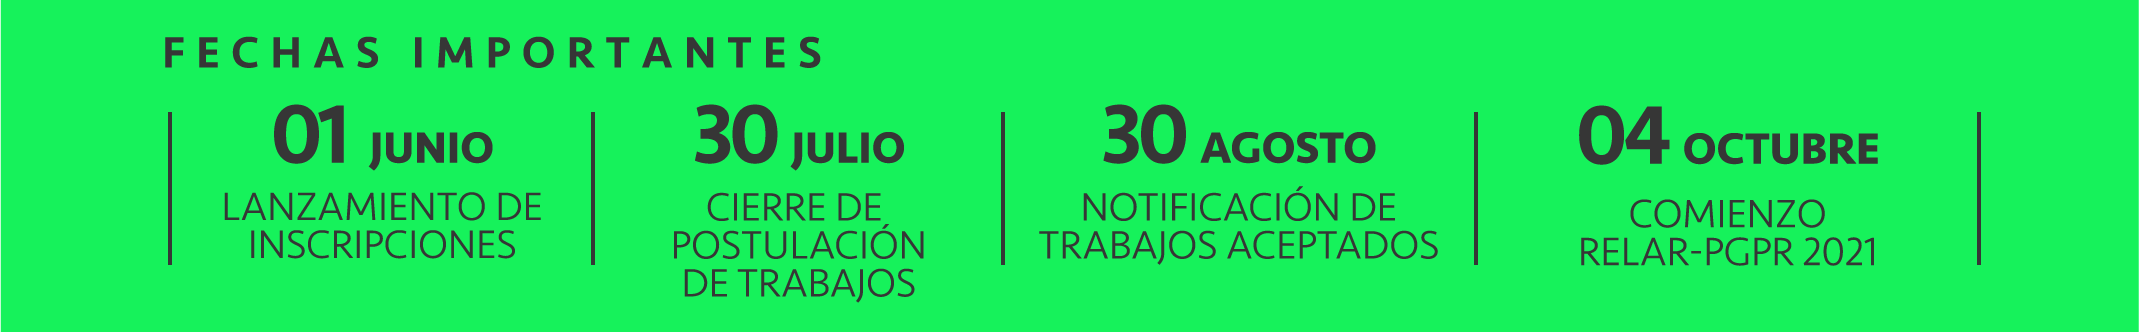
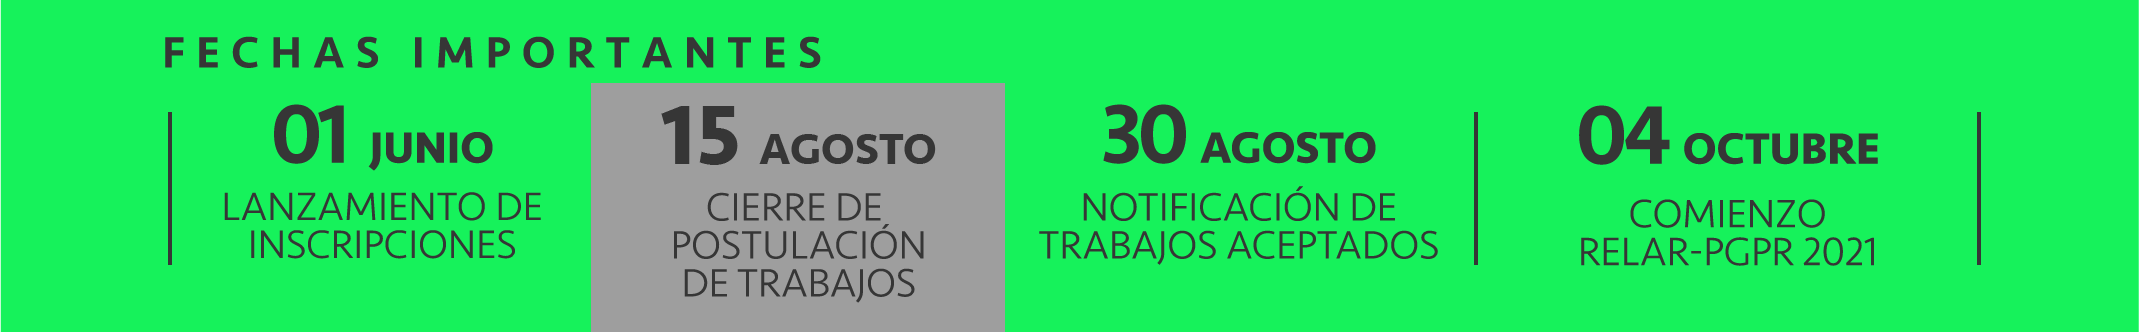
Pop up/ Noticias
Agregado PopUp en el inicio/
Actualizadas fechas importantes/
Actualizadas las noticias.

diff --git a/src/app/pages/noticias/noticias.component.html b/src/app/pages/noticias/noticias.component.html
@@ -5,6 +5,17 @@
     <div class="px-5 w-lg-75 mx-auto mx-5 mt-5">
         <section class="row mt-0">
             <div class="col-12 col-md-4 col-lg-3">
+                <img class="img-fluid" src="/assets/img/noti-4.jpg" alt="Placa de noticia">
+            </div>
+            <div class="col-12 col-md-8 mt-3 mt-mt-0">
+                <h3>Inscripción PEDECIBA</h3>
+                <hr>
+                <p>Investigadores y estudiantes de PEDECIBA (Biología o Químimca) pueden abonar el costo de inscripción por medio de la alícuota PEDECIBA, enviando el siguiente formulario: <a href="https://firebasestorage.googleapis.com/v0/b/relar-pgpr.appspot.com/o/FormularioPagoRELAR_PGPR_Pedeciba.odt?alt=media&amp;token=007214a8-03f6-43e4-85ff-dbee06824e0b" target="_blank" rel="Formulario PEDECIBA">link formulario</a> a PEDECIBA Biologia: <a href="mailto:presupuestobiologia@pedeciba.edu.uy">presupuestobiologia@pedeciba.edu.uy</a> con copia a <a href="mailto:secretaria.alar@gmail.com">secretaria.alar@gmail.com</a>  / PEDECIBA Química: <a href="mailto:gabig@fq.edu.uy">gabig@fq.edu.uy</a> con copia a <a href="mailto:secretaria.alar@gmail.com">secretaria.alar@gmail.com</a>.</p>
+                <p>Toda persona que haya realizado el pago de inscripción a través de la alícuota PEDECIBA deberá solicitar su código de inscripción a <a href="mailto:secretaria.alar@gmail.com">secretaria.alar@gmail.com</a></p>
+            </div>
+        </section>
+        <section class="row mt-0">
+            <div class="col-12 col-md-4 col-lg-3">
                 <img class="img-fluid" src="/assets/img/noti-2.jpg" alt="Placa de noticia">
             </div>
             <div class="col-12 col-md-8 mt-3 mt-mt-0">

diff --git a/src/app/components/home/noticias/noticias.component.html b/src/app/components/home/noticias/noticias.component.html
@@ -1,13 +1,13 @@
 <section class="w-100">
   <div class="d-flex p-5">
-    <div class="col puntero p-0">
-      <img class="img-fluid w-100" [routerLink]="['/noticias']" src="/assets/img/noti-1.jpg" alt="Noticia 1">
+    <div class="col puntero px-5 d-flex align-items-center">
+      <img class="img-fluid w-100" [routerLink]="['/noticias']" src="/assets/img/pop-up.png" alt="Noticia 1">
     </div>
-    <div class="col puntero px-5">
+    <div class="col puntero p-0">
       <img class="img-fluid w-100" [routerLink]="['/noticias']" src="/assets/img/noti-2.jpg" alt="Noticia 2">
     </div>
-    <div class="col puntero p-0">
-      <img class="img-fluid w-100" [routerLink]="['/noticias']" src="/assets/img/noti-3.jpg" alt="Noticia 3">
+    <div class="col puntero px-5 d-flex align-items-center">
+      <img class="img-fluid w-100" [routerLink]="['/noticias']" src="/assets/img/noti-4.jpg" alt="Noticia 1">
     </div>
   </div>
 </section>

diff --git a/src/app/pages/home/home.component.ts b/src/app/pages/home/home.component.ts
@@ -1,5 +1,7 @@
 import { Component, OnInit } from '@angular/core';
-
+import { MatDialog } from '@angular/material/dialog';
+import { PopUpComponent } from '../../components/dialogs/pop-up-home.component';
+import { AuthService } from '../../services/auth.service';
 
 @Component({
   selector: 'app-home',
@@ -8,9 +10,20 @@ import { Component, OnInit } from '@angular/core';
 })
 export class HomeComponent implements OnInit {
 
-  constructor() { }
+  constructor(
+    public dialog: MatDialog,
+    private auth: AuthService
+  ) {
+    this.openDialog();
+  }
 
-  ngOnInit(): void {
+  ngOnInit(): void {}
+
+  openDialog = () =>{
+    if(this.auth.popup){
+      const dialogRef = this.dialog.open(PopUpComponent);
+      this.auth.popup = false;
+    }
   }
 
 }

diff --git a/src/app/app.module.ts b/src/app/app.module.ts
@@ -85,6 +85,8 @@ import { UsernamePipe } from './pipes/username.pipe';
 
 /* DIALOGS */
 import { DeleteConfirmationComponent } from './components/dialogs/delete-confirmation.component';
+import { PopUpComponent } from './components/dialogs/pop-up-home.component';
+
 
 @NgModule({
   declarations: [
@@ -121,7 +123,8 @@ import { DeleteConfirmationComponent } from './components/dialogs/delete-confirm
     IntroduccionComponent,
     MesasRedondasComponent,
     PostularFormComponent,
-    DeleteConfirmationComponent
+    DeleteConfirmationComponent,
+    PopUpComponent
   ],
   imports: [
     BrowserModule,

diff --git a/src/app/pages/mesas-redondas/mesas-redondas.component.html b/src/app/pages/mesas-redondas/mesas-redondas.component.html
@@ -22,9 +22,7 @@
         <mat-menu #invitados="matMenu">
             <ul class="py-2 mt-2">
                 <li class="li" *ngFor="let cid of this.sesion.conferencistas">
-                    <a [href]="this.data.conferencistas[cid].url" target="_blank">
                     <span class="uppercase">{{ this.data.conferencistas[cid].nombre }}</span><br>{{ this.data.conferencistas[cid].institucion }}
-                    </a>
                 </li>
             </ul>
         </mat-menu>

diff --git a/src/app/components/dialogs/pop-up-home.component.ts b/src/app/components/dialogs/pop-up-home.component.ts
@@ -1,0 +1,18 @@
+import { Component, Inject } from '@angular/core';
+import { MAT_DIALOG_DATA } from '@angular/material/dialog';
+
+@Component({
+  selector: 'app-pop-up',
+  template: `
+  <div>
+    <img style="max-width: 450px;" src="/assets/img/pop-up.png" alt="Nuevas fechas de inscripciones">
+  </div>
+  `
+})
+export class PopUpComponent {
+
+  constructor(
+    @Inject(MAT_DIALOG_DATA) public data: any
+  ) {}
+
+}

diff --git a/src/app/services/auth.service.ts b/src/app/services/auth.service.ts
@@ -9,9 +9,11 @@ import { map, delay } from 'rxjs/operators';
 })
 export class AuthService {
 
-  public user = new UserDB();
   public logged = false;
+  public popup = true;
+  public user = new UserDB();
   private trabajo = new Trabajo();
+
   private url = 'https://relar-pgpr-default-rtdb.firebaseio.com';
 
   constructor( 

diff --git a/src/app/pages/user/router.component.ts b/src/app/pages/user/router.component.ts
@@ -1,0 +1,12 @@
+import { Component } from '@angular/core';
+
+@Component({
+  selector: 'app-user',
+  templateUrl: `<router-outlet></router-outlet>`,
+  styleUrls: ['./user.component.css']
+})
+export class UserRouterComponent{
+
+  constructor(){}
+
+}

diff --git a/src/app/pages/user/user-routes.ts b/src/app/pages/user/user-routes.ts
@@ -1,0 +1,7 @@
+import { Routes } from '@angular/router';
+import { UserComponent } from './user.component';
+
+export const USER_ROUTES: Routes = [
+  { path: '', component: UserComponent },
+  { path: '**', pathMatch: 'full', redirectTo: '' }
+];

diff --git a/src/app/pages/home/home.component.html b/src/app/pages/home/home.component.html
@@ -29,4 +29,3 @@
   <!-- LOGOS -->
   <app-home-logos></app-home-logos>
 </main>
-
